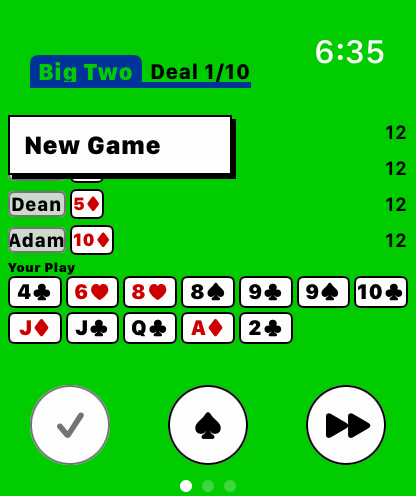
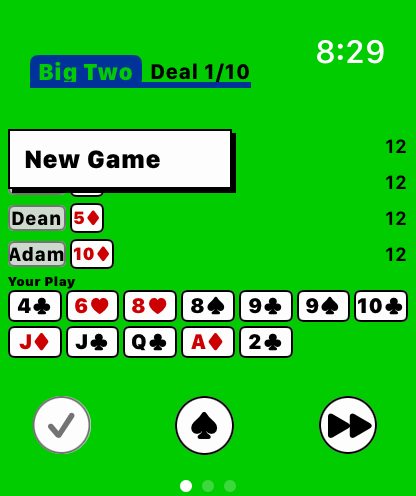
Size the watch's action discs from their mark, and close the gap above them
"Standard size" rather than a fixed 40pt: a disc is its mark plus even padding,
which comes out where the system draws a bottom-bar button. The 40pt version
cost twice over — 30pt of empty felt to clear it, and a whole size step on a
40mm, which is what the .tiny step had to be added for.

With the smaller discs the clearance the hand needs under it drops from 30pt to
16, so the hand sits close to the buttons again.

BigTwoWatchUITests 10/10 on the 46mm; 40mm looked at by hand.

diff --git a/BigTwoWatch/Views/WatchPalmIconView.swift b/BigTwoWatch/Views/WatchPalmIconView.swift
@@ -4,6 +4,10 @@
 //  mark on it. All three of the bottom bar's actions are these, because a watch bar has
 //  room for three discs and not for three worded pills.
 //
+//  ⚠ The disc has **no fixed diameter** — it is the mark plus even padding, which comes
+//  out at the size the system draws a bottom-bar button. A 40pt one was tried: it had to
+//  be cleared by 30pt of empty felt above it, and that cost a 40mm a whole size step.
+//
 //  The sort toggle draws a literal glyph rather than a symbol: ♠ / 2 says *which order a
 //  tap switches to*, which no SF Symbol says.
 //
@@ -14,22 +18,25 @@ struct WatchPalmIconView: View {
   var systemImage: String?
   var glyph: String?
   var enabled = true
-  var diameter: CGFloat = 40
   let action: () -> Void
+
+  private static let mark: CGFloat = 15
+  private static let padding: CGFloat = 7
 
   var body: some View {
     Button(action: action) {
       Group {
         if let systemImage {
           Image(systemName: systemImage)
-            .font(.system(size: diameter * 0.38, weight: .heavy))
+            .font(.system(size: Self.mark, weight: .heavy))
         } else if let glyph {
-          Text(verbatim: glyph).font(.palm(diameter * 0.42, .heavy))
+          Text(verbatim: glyph).font(.palm(Self.mark + 2, .heavy))
         }
       }
       // Palm greys the mark and keeps the white disc; a faded-out button is not this app.
       .foregroundColor(enabled ? .ink : .inkDim)
-      .frame(width: diameter, height: diameter)
+      .frame(minWidth: Self.mark, minHeight: Self.mark)
+      .padding(Self.padding)
       .background(Circle().fill(Color.cardFace))
       .overlay(Circle().strokeBorder(enabled ? Color.ink : Color.inkDim, lineWidth: 1))
       .contentShape(Circle())

diff --git a/BigTwoWatch/Views/WatchGameView.swift b/BigTwoWatch/Views/WatchGameView.swift
@@ -128,11 +128,11 @@ struct WatchGameView: View {
     // Clear of the title's rule: the navigation bar leaves nothing between them on a 40mm.
     .padding(.top, 3)
     // ⚠ The bottom bar draws taller than it reserves — measured on a 46mm, it takes 53pt
-    // of a 248pt screen at the bottom and puts the 40pt discs in it, and the hand's last
-    // row came up behind them on a 40mm. This is the difference, and it is a property of
-    // the bar and the buttons rather than of the screen, so it is the same number on every
-    // watch — but it has to be re-checked on a 40mm whenever the buttons change size.
-    .padding(.bottom, 30)
+    // of a 248pt screen at the bottom and draws the discs over the top of that, and the
+    // hand's last row came up behind them without this. It is a property of the bar and
+    // the buttons rather than of the screen, so it is the same number on every watch —
+    // but it has to be re-checked on a 40mm whenever the buttons change size.
+    .padding(.bottom, 16)
     .frame(maxWidth: .infinity, maxHeight: .infinity, alignment: .top)
   }
 

diff --git a/docs/test_runs.md b/docs/test_runs.md
@@ -82,3 +82,4 @@ evidence that a test can fail; they stay in the log.
 - 2026-10-01 — watch-app: `WatchGameView` rewritten with **no `NavigationStack` and no `GeometryReader`**, and the iOS title tab seated on its own rule. BigTwoKit ✓ 72/72 · iOS ✓ 15/15 (BigTwo 16 Pro Max, 18.6) · `BigTwoWatchUITests` ✓ 10/10 (Series 12 46mm, watchOS 27), and the table looked at by hand on **40mm, 42mm and 46mm** — the 40mm (162×197pt) is the one that matters, because nothing is measured any more and the fixed budget has to fit it. First attempt overflowed it and pushed the buttons off the bottom; a player row is 20 now (was 23), the title row 22, the bar 28. ⚠ The menu identifier had to move from `app.buttons["menu_button"]` to `app.descendants(matching: .any)[…].firstMatch`: as a toolbar item it was published twice, as an ordinary view it is not published as a button at all. ⚠ `screenshots/ios-se/` is a native SE capture from 2026-09-19 and cannot be refreshed — no SE simulator exists on this Mac any more
 - 2026-10-01 — watch-app: the three actions moved to `ToolbarItemGroup(placement: .bottomBar)` per watchOS 10's UI guidance, the table given `WatchMetrics` steps picked by `ViewThatFits`, and the title's menu seated under the title bar. `BigTwoWatchUITests` ✓ 10/10 (Series 12 46mm, watchOS 27), looked at by hand on 40mm and 42mm. ⚠ Three things found only by photographing them: a bare `Color` handed to `.background` **spreads into the safe area** — the menu's white face ran from under the title bar to the top of the screen while its one item sat correctly below, and it took a red-tint probe to prove the face was the culprit (a `Rectangle().fill(…)` background then did not draw at all, so the face is a `ZStack` layer now); the bottom bar **draws taller than it reserves**, which costs a fixed 18pt of clearance; and a pill in a toolbar needs horizontal padding or "Lead" comes back as a circle. ⚠ `extract_screenshots.py` ignores the top 15% of a watch shot, which is **where the menu is** — three runs reported "clock only, kept" and I was reading a stale PNG each time. Use `--force` into a scratch dir when the thing under test is up there
 - 2026-10-01 — watch-app: the three actions are round 40pt discs with one mark each, sort in the middle. `BigTwoWatchUITests` ✓ 10/10 (Series 12 46mm, watchOS 27), 40mm looked at by hand. ⚠ Bigger buttons cost twice over: the clearance under the hand went from 18 to **30**, and that pushed a 40mm past the smallest size step it had — `ViewThatFits` with nowhere left to fall keeps the step that does *not* fit, and the first player's row went up behind the title. A `.tiny` step fixed it. Whenever the buttons change size, re-check a 40mm
+- 2026-10-01 — watch-app: the three discs sized from their own mark rather than a fixed 40pt, and the gap between the hand and them cut from 30pt to 16. `BigTwoWatchUITests` ✓ 10/10 (Series 12 46mm, watchOS 27), 40mm looked at by hand — and it no longer needs the `.tiny` step to clear the title, though the step stays as the floor

diff --git a/CLAUDE.md b/CLAUDE.md
@@ -185,10 +185,12 @@ runs the same `BigTwoKit` — same rules, same bots, same scoring. The kit decla
   [watchOS 10's UI guidance](https://developer.apple.com/documentation/watchos-apps/creating-an-intuitive-and-effective-ui-in-watchos-10):
   the navy "Big Two" tab and `Deal n/10` are a `ToolbarItem(placement: .topBarLeading)`,
   the three actions are a `ToolbarItemGroup(placement: .bottomBar)`, and `BigTwoWatch`
-  touches neither. The actions are **round 40pt discs with one mark each**, not worded
-  pills — a watch bar has room for three discs and not for three words: a check to play
-  the selection, the sort toggle **in the middle** (the one that never hides), and a
-  forward arrow to pass. ⚠ The sort toggle keeps its literal `♠` / `2` glyph rather than
+  touches neither. The actions are **round discs with one mark each**, not worded pills —
+  a watch bar has room for three discs and not for three words: a check to play the
+  selection, the sort toggle **in the middle** (the one that never hides), and a forward
+  arrow to pass. ⚠ A disc has **no fixed diameter** — it is its mark plus even padding,
+  which comes out at the size the system draws a bottom-bar button. A 40pt one was tried
+  and cost twice over: 30pt of empty felt to clear it, and a whole size step on a 40mm. ⚠ The sort toggle keeps its literal `♠` / `2` glyph rather than
   a symbol: it says *which order a tap switches to*, which no SF Symbol says. ⚠ A
   *worded* pill in a toolbar needs its own horizontal padding — the toolbar proposes no
   width, so `maxWidth: .infinity` falls back to the width of the word, and "Lead" came out
@@ -210,9 +212,9 @@ runs the same `BigTwoKit` — same rules, same bots, same scoring. The kit decla
   0, outside it reads the whole bar. Three builds tried: a flat `-22`, the difference of
   two insets, and a probe on the title's own frame. Every one was right on every simulator
   here and raised the first player rows off the top of the screen on a real watch. The one
-  constant that is still needed is `.padding(.bottom, 30)`: the bottom bar **draws taller
-  than it reserves** — 53pt of a 248pt screen at the bottom, with the 40pt discs in it —
-  and the hand's last row came up behind them on a 40mm without it. It is a property of
+  constant that is still needed is `.padding(.bottom, 16)`: the bottom bar **draws taller
+  than it reserves** — 53pt of a 248pt screen at the bottom, with the discs drawn over the
+  top of that — and the hand's last row came up behind them on a 40mm without it. It is a property of
   the bar and the buttons, not of the screen, so it is the same on every watch — but it
   has to be re-checked on a 40mm whenever the buttons change size.
   Lead/Play and Pass hide when it is not your turn, as on the phone; the sort icon does
